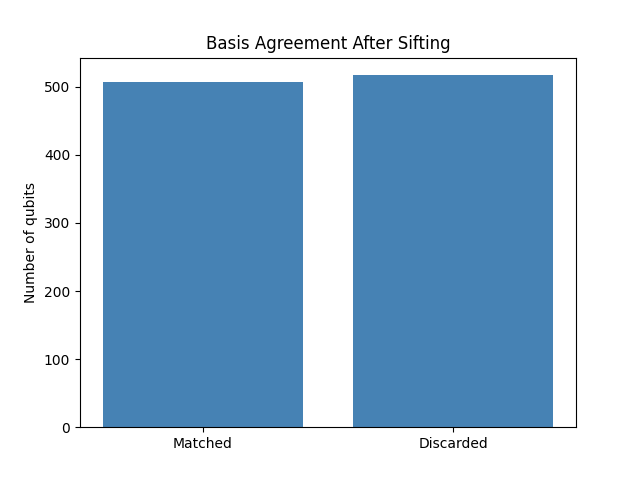
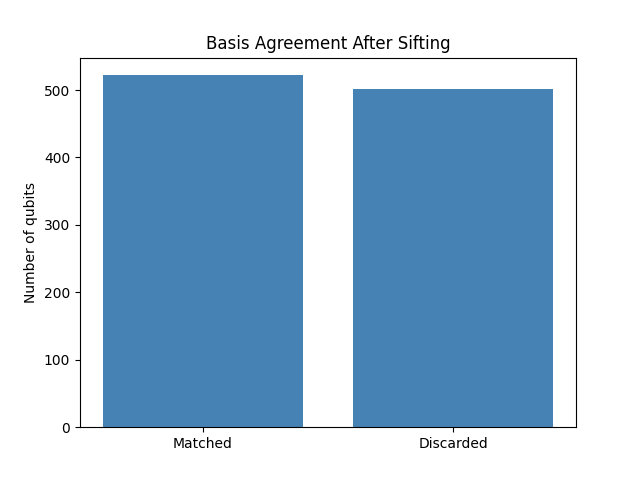
readme

diff --git a/README.md b/README.md
@@ -1,6 +1,66 @@
-# BB84 Quantum Key Distribution Simulator
+# BB84 Quantum Key Distribution Simulation
 
-This project simulates the BB84 quantum cryptography protocol, demonstrating how quantum measurements can detect eavesdropping.
+A Python simulation of the BB84 Quantum Key Distribution (QKD), built while preparing for a research internship in accessible quantum computing technologies. The goal was to get hands on with the core ideas of quantum cryptography by implementing them from scratch, encoding qubits, simulating eavesdropping, measuring error rates, and using the resulting key to encrypt and decrypt a real message.
 
-### Features
+## What is BB84?
 
+BB84 lets two parties, Alice and Bob, establish a shared secret key using quantum mechanics. Its security comes from a law of physics: you cannot measure a quantum system without disturbing it. Any eavesdropper on the channel will introduce detectable errors, and the protocol will abort before a compromised key is ever used.
+
+## How the simulation works
+
+The simulation runs in two phases.
+
+### Phase 1: Quantum key generation
+
+Alice generates random qubits, each encoded in a randomly chosen basis (rectilinear `+` or diagonal `x`). In the real world these would be photons sent down a fibre optic cable. The qubits travel through the quantum channel, where noise and eavesdropping can be toggled independently. If Eve is active, she intercepts each qubit, measures it in a randomly chosen basis, and re sends it, simulating an intercept and re send attack. Because she does not know Alice's basis, she disturbs the qubits roughly half the time.
+
+Bob measures each qubit in his own randomly chosen basis. Alice and Bob then publicly compare which basis they each used and discard any mismatched qubits. What remains is the sifted key. The Quantum Bit Error Rate (QBER) is calculated from this, a channel with noise and no Eve sits close to 0%, with Eve, it is pushed around 25%. If it exceeds 5%, the protocol aborts.
+
+### Phase 2: Classical message transmission
+
+Alice encrypts her message using the shared key with XOR encryption. The ciphertext is sent over a normal channel and Bob decrypts it using his copy of the key.
+
+## Configuration
+
+At the top of `main.py`:
+
+```python
+# toggle Eve's eavesdropping on or off
+EVE = True
+# toggle channel noise on or off
+NOISE = True
+# number of qubits Alice sends
+KEY_QUBIT_COUNT = 1024
+```
+
+Increasing `KEY_QUBIT_COUNT` gives a longer sifted key, which allows longer messages to be fully encrypted.
+
+## Plots
+
+Three plots are saved to the `plots/` directory after each run.
+
+**qber**: Shows the overall bit error rate against the 5% abort threshold.
+
+**basis_agreement**: Shows how many qubits were kept after sifting versus discarded due to basis mismatch.
+
+**key_errors**: Shows how many bits in the final sifted key agree between Alice and Bob and how many differ.
+
+## Dependencies
+
+```
+matplotlib
+```
+
+Install with:
+
+```
+pip install matplotlib
+```
+
+## Running the simulation
+
+```
+python main.py
+```
+
+Alice will be prompted to enter a message, then the results will print to the terminal, and save the three plots to the `plots/` directory.
